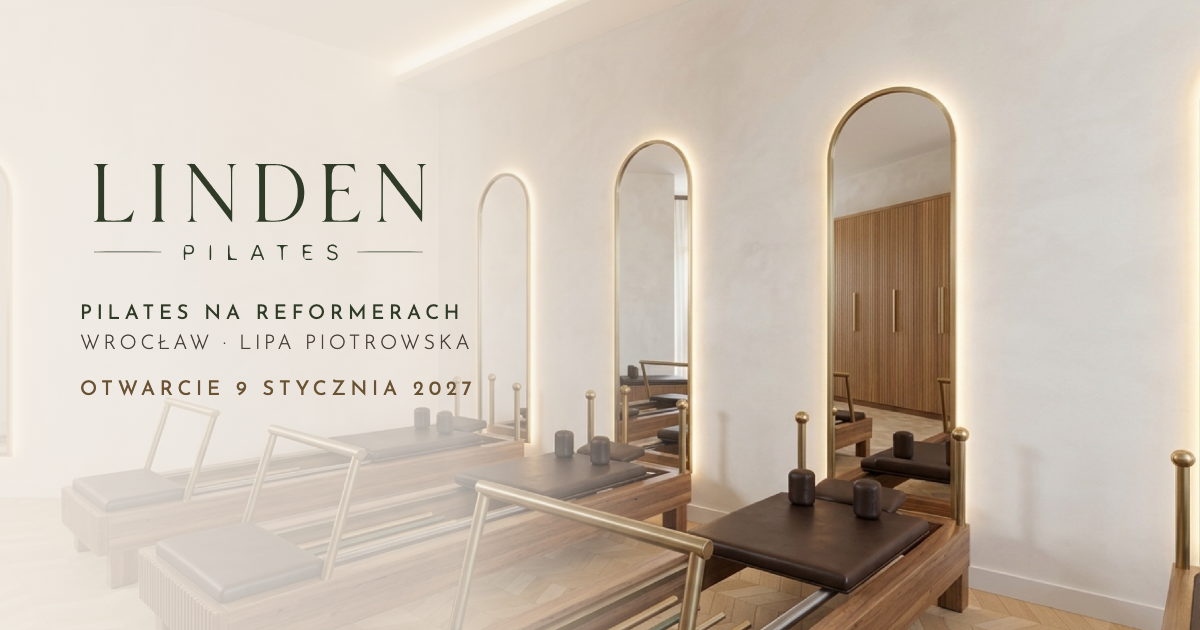
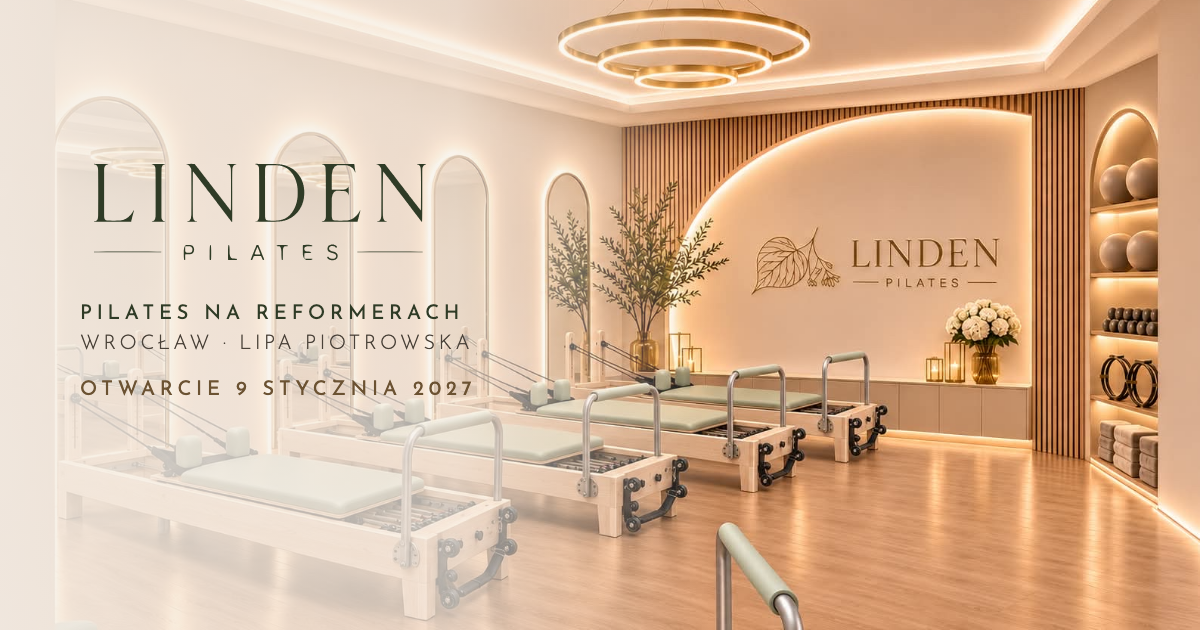
Nowa wizualizacja sali, ściana z solanki, trening 50 min, STOTT PILATES u instruktorki

diff --git a/index.html b/index.html
@@ -97,7 +97,7 @@ footer .brand .lg{height:70px}
 .hero{position:relative;min-height:100svh;display:flex;align-items:flex-end;color:#fff;padding:120px 0 9vh;overflow:hidden}
 .hero img.bg{position:absolute;inset:0;width:100%;height:100%;object-fit:cover;object-position:68% 50%;transform:scale(1.04);animation:slow 18s ease-out forwards}
 @keyframes slow{to{transform:scale(1)}}
-.hero::after{content:"";position:absolute;inset:0;background:linear-gradient(90deg,rgba(25,20,16,.85) 0%,rgba(25,20,16,.62) 42%,rgba(25,20,16,.15) 64%,rgba(25,20,16,0) 78%),linear-gradient(180deg,rgba(25,20,16,.45) 0%,rgba(25,20,16,0) 25%,rgba(25,20,16,0) 55%,rgba(25,20,16,.7) 100%)}
+.hero::after{content:"";position:absolute;inset:0;background:linear-gradient(90deg,rgba(25,20,16,.9) 0%,rgba(25,20,16,.78) 44%,rgba(25,20,16,.35) 64%,rgba(25,20,16,.08) 82%),linear-gradient(180deg,rgba(25,20,16,.45) 0%,rgba(25,20,16,0) 25%,rgba(25,20,16,0) 55%,rgba(25,20,16,.7) 100%)}
 .hero .wrap{position:relative;z-index:2;width:100%}
 .hero h1{font-size:clamp(44px,6.2vw,86px);max-width:760px;margin:18px 0 22px}
 .hero h1 em{font-style:italic;color:#E2C08A}
@@ -281,7 +281,7 @@ footer a{text-decoration:none}footer a:hover{color:var(--brass-light)}
   .schedule table{min-width:640px}
 }
 @media (max-width:560px){
-  .hero::after{background:linear-gradient(180deg,rgba(25,20,16,.55) 0%,rgba(25,20,16,.62) 45%,rgba(25,20,16,.8) 100%)}
+  .hero::after{background:linear-gradient(180deg,rgba(25,20,16,.6) 0%,rgba(25,20,16,.7) 45%,rgba(25,20,16,.86) 100%)}
   .hero img.bg{object-position:72% 50%}
   body{font-size:17px}
   .cards,.features{grid-template-columns:1fr}
@@ -318,7 +318,7 @@ footer a{text-decoration:none}footer a:hover{color:var(--brass-light)}
 
 <!-- HERO -->
 <section class="hero">
-  <img class="bg" src="img/hero-sala-linden.jpg" alt="Sala Linden Pilates: reformery, łukowe lustra i ściana z mchu z podświetlanym logo">
+  <img class="bg" src="img/sala-linden-2027.jpg" alt="Sala Linden Pilates: reformery, łukowe lustra w ciepłym świetle i podświetlana ściana z logo">
   <div class="wrap">
     <div class="eyebrow">Otwarcie 9 stycznia 2027<span class="sep"> · </span><span class="loc">Wrocław, Lipa Piotrowska</span></div>
     <h1>Pilates na reformerach <em>w cieniu lipy</em></h1>
@@ -330,7 +330,7 @@ footer a{text-decoration:none}footer a:hover{color:var(--brass-light)}
     <div class="facts">
       <div><b>5</b><span>osób w grupie, max</span></div>
       <div><b>1:1</b><span>reformer i lustro</span></div>
-      <div><b>55 min</b><span>jeden trening</span></div>
+      <div><b>50 min</b><span>jeden trening</span></div>
       <div><b>9.01</b><span>otwarcie 2027</span></div>
     </div>
   </div>
@@ -346,11 +346,11 @@ footer a{text-decoration:none}footer a:hover{color:var(--brass-light)}
       <p class="lead">Nazwa studia mówi o tym, skąd jesteśmy i jak ma Ci być u nas: blisko, naturalnie i spokojnie.</p>
       <div class="meanings">
         <div class="meaning"><div class="n">I</div><div><h3>Miejsce</h3><p>Jesteśmy na osiedlu Lipa Piotrowska. Lipa w nazwie to nasz kawałek okolicy, a studio jest blisko domu.</p></div></div>
-        <div class="meaning"><div class="n">II</div><div><h3>Natura</h3><p>Studio urządziliśmy w drewnie, w ciepłym świetle i wśród zieleni, która jest z nami przez cały rok, ze ścianą z mchu na czele.</p></div></div>
+        <div class="meaning"><div class="n">II</div><div><h3>Natura</h3><p>Studio urządziliśmy w drewnie i ciepłym świetle, wśród zieleni i przy ścianie z solanki, która pomaga się wyciszyć.</p></div></div>
         <div class="meaning"><div class="n">III</div><div><h3>Spokój</h3><p>Kwiat lipy od pokoleń kojarzy się z ukojeniem. Tak chcemy prowadzić zajęcia: spokojnie, uważnie i w Twoim tempie.</p></div></div>
       </div>
     </div>
-    <div class="arch rv"><img src="img/03-detal-lustro.jpg" alt="Wysokie łukowe lustro w mosiężnej ramie za reformerem" loading="lazy"></div>
+    <div class="arch rv"><img src="img/sala-lustro-detal.jpg" alt="Wysokie łukowe lustro w złotej ramie za reformerem" loading="lazy"></div>
   </div>
 </section>
 
@@ -359,19 +359,19 @@ footer a{text-decoration:none}footer a:hover{color:var(--brass-light)}
   <div class="wrap">
     <div class="studio-head rv">
       <div><div class="eyebrow">Studio</div><h2>Spokojna przestrzeń do pracy z ciałem</h2></div>
-      <p class="lead">Jasna sala z dużym oknem, dębową podłogą i ukrytą zabudową. Nie ma tu bałaganu ani sprzętu na widoku, są tylko reformery, światło i zieleń. <small class="viz-note">Zdjęcia to wizualizacje studia, które właśnie wykańczamy.</small></p>
+      <p class="lead">Jasna sala z łukowymi lustrami, drewnem i ciepłym, rozproszonym światłem. Reformery, zieleń i ściana z solanki tworzą spokojne miejsce do treningu. <small class="viz-note">Zdjęcia to wizualizacje studia, które właśnie wykańczamy.</small></p>
     </div>
     <div class="gallery">
-      <figure class="g1 rv"><img src="img/sciana-z-mchu-linden.jpg" alt="Ściana z mchu z podświetlanym logo Linden Pilates" loading="lazy"><figcaption>Ściana z mchu</figcaption></figure>
-      <figure class="g2 rv"><img src="img/05-okno-i-swiatlo.jpg" alt="Duże okno, oliwka w donicy i miękkie światło" loading="lazy"><figcaption>Dzienne światło</figcaption></figure>
-      <figure class="g3 rv"><img src="img/04-zabudowa.jpg" alt="Dębowa zabudowa ryflowana z niszą na ręczniki i piłki" loading="lazy"><figcaption>Wszystko na swoim miejscu</figcaption></figure>
-      <figure class="g4 rv"><img src="img/07-hero-wieczor.jpg" alt="Sala wieczorem w ciepłym świetle LED" loading="lazy"><figcaption>Wieczorne zajęcia</figcaption></figure>
-      <figure class="g5 rv"><img src="img/02-rzad-luster.jpg" alt="Rząd reformerów z łukowymi lustrami" loading="lazy"><figcaption>Lustro przy każdym reformerze</figcaption></figure>
+      <figure class="g1 rv"><img src="img/sala-linden-2027.jpg" alt="Sala Linden Pilates z pięcioma reformerami i łukowymi lustrami" loading="lazy"><figcaption>Nasza sala</figcaption></figure>
+      <figure class="g2 rv"><img src="img/sala-logo.jpg" alt="Podświetlana ściana z logo Linden Pilates, drewniane lamele i kwiaty" loading="lazy"><figcaption>Ściana z logo</figcaption></figure>
+      <figure class="g3 rv"><img src="img/sala-lustra.jpg" alt="Łukowe lustra za reformerami" loading="lazy"><figcaption>Lustro przy każdym reformerze</figcaption></figure>
+      <figure class="g4 rv"><img src="img/sala-polki.jpg" alt="Podświetlana nisza z piłkami, ciężarkami i kołami do pilatesu" loading="lazy"><figcaption>Wszystko pod ręką</figcaption></figure>
+      <figure class="g5 rv"><img src="img/sala-swiatlo.jpg" alt="Złoty żyrandol z trzech okręgów i ciepłe światło w sali" loading="lazy"><figcaption>Ciepłe światło</figcaption></figure>
     </div>
     <div class="features">
       <div class="feature rv"><div class="ico">5</div><h3>Małe grupy</h3><p>Najwyżej pięć osób na zajęciach, więc każdy ruch jest pod okiem instruktorki.</p></div>
       <div class="feature rv"><div class="ico">◐</div><h3>Własne lustro</h3><p>Za każdym reformerem wisi wysokie lustro. Widzisz swoją sylwetkę i od razu poprawiasz ustawienie.</p></div>
-      <div class="feature rv"><div class="ico">❦</div><h3>Zieleń przez cały rok</h3><p>Ściana z mchu z naszym logo, oliwka i strelicja tworzą spokojne tło do treningu.</p></div>
+      <div class="feature rv"><div class="ico">❦</div><h3>Ściana z solanki</h3><p>Ściana z solanki, drewno i zieleń tworzą spokojne tło do treningu.</p></div>
       <div class="feature rv"><div class="ico">◎</div><h3>Szatnia i prysznic</h3><p>Szafki z zamkiem, ławka i łazienka z prysznicem. Możesz przyjść prosto z pracy.</p></div>
     </div>
   </div>
@@ -384,13 +384,13 @@ footer a{text-decoration:none}footer a:hover{color:var(--brass-light)}
     <div class="rv">
       <div class="eyebrow">Instruktorka</div>
       <h2 class="name">Iga Chojnacka</h2>
-      <div class="role">Instruktorka pilatesu na reformerach</div>
+      <div class="role">Instruktorka pilatesu na reformerach · STOTT PILATES®</div>
       <p class="lead">Na zajęciach w Linden pracujesz pod okiem jednej, stałej instruktorki. Zna Twoje ciało, pamięta, nad czym pracujesz, i dobiera ćwiczenia do Twojego dnia.</p>
       <blockquote>Pilates to nie wyścig. Liczy się spokojny oddech, dobre ustawienie i ruch, po którym czujesz się lżej.</blockquote>
       <ul class="creds">
         <li><b>Prowadzi</b>Pierwsze wizyty, grupy, duety i treningi&nbsp;1:1</li>
-        <li><b>Styl pracy</b>Spokojnie i uważnie, technika przed tempem</li>
-        <li><b>Grupy</b>Najwyżej pięć osób, każda pod okiem instruktorki</li>
+        <li><b>Metoda</b>Pilates współczesny: spokojnie i uważnie, technika przed tempem</li>
+        <li><b>Szkolenie</b>Ukończony kurs STOTT PILATES® Reformer</li>
         <li><b>Dla kogo</b>Od zupełnie początkujących po zaawansowane</li>
       </ul>
       <a href="#kontakt" class="btn btn-primary">Zapisz się na listę</a>
@@ -404,8 +404,8 @@ footer a{text-decoration:none}footer a:hover{color:var(--brass-light)}
     <div class="rv"><div class="eyebrow">Zajęcia</div><h2>Wybierz swój sposób ćwiczenia</h2>
     <p class="lead">Wszystkie zajęcia odbywają się na reformerach. Ćwiczenia dobieramy do Twojego poziomu, celu i samopoczucia.</p></div>
     <div class="cards">
-      <article class="card rv"><div class="tag">Na start</div><h3>Pierwsza wizyta</h3><p>Spokojne wprowadzenie: poznasz reformer, podstawowe zasady pilatesu i oddech. Na koniec dobierzemy dla Ciebie zajęcia.</p><ul><li>1–2 osoby</li><li>55 minut</li></ul></article>
-      <article class="card rv"><div class="tag">Podstawa</div><h3>Reformer w grupie</h3><p>Trening całego ciała w małej grupie. Wzmacnia mięśnie głębokie, poprawia postawę i mobilność.</p><ul><li>do 5 osób</li><li>poziom podstawowy i średni</li></ul></article>
+      <article class="card rv"><div class="tag">Na start</div><h3>Pierwsza wizyta</h3><p>Spokojne wprowadzenie: poznasz reformer, podstawowe zasady pilatesu i oddech. Na koniec dobierzemy dla Ciebie zajęcia.</p><ul><li>1–2 osoby</li><li>50 minut</li></ul></article>
+      <article class="card rv"><div class="tag">Podstawa</div><h3>Reformer w grupie</h3><p>Trening całego ciała w małej grupie. Wzmacnia mięśnie głębokie, poprawia postawę i mobilność.</p><ul><li>do 5 osób · 50 minut</li><li>poziom podstawowy i średni</li></ul></article>
       <article class="card rv"><div class="tag">We dwoje</div><h3>Duet</h3><p>Trening z partnerem, przyjaciółką lub mamą. Program ułożony pod Was dwoje, w Waszym tempie.</p><ul><li>2 osoby</li><li>termin do ustalenia</li></ul></article>
       <article class="card rv"><div class="tag">1 : 1</div><h3>Trening indywidualny</h3><p>Pełna uwaga instruktorki. Dobre rozwiązanie przy powrocie po kontuzji, w ciąży i po porodzie, oraz przy konkretnym celu.</p><ul><li>1 osoba</li><li>plan dopasowany do Ciebie</li></ul></article>
     </div>
@@ -428,7 +428,7 @@ footer a{text-decoration:none}footer a:hover{color:var(--brass-light)}
         </ul>
         <a href="#kontakt" class="btn btn-primary">Zapisz się na listę</a>
       </div>
-      <div class="photo rv"><img src="img/01-hero-od-wejscia-zielen.jpg" alt="Sala z reformerami widziana od wejścia (wizualizacja)" loading="lazy"></div>
+      <div class="photo rv"><img src="img/sala-reformery.jpg" alt="Reformery w sali Linden Pilates (wizualizacja)" loading="lazy"></div>
     </div>
     <div class="steps">
       <div class="step rv"><h3>Zapisz się</h3><p>Dopisz się do listy, a przed otwarciem dobierzemy termin Twojej pierwszej wizyty.</p></div>
